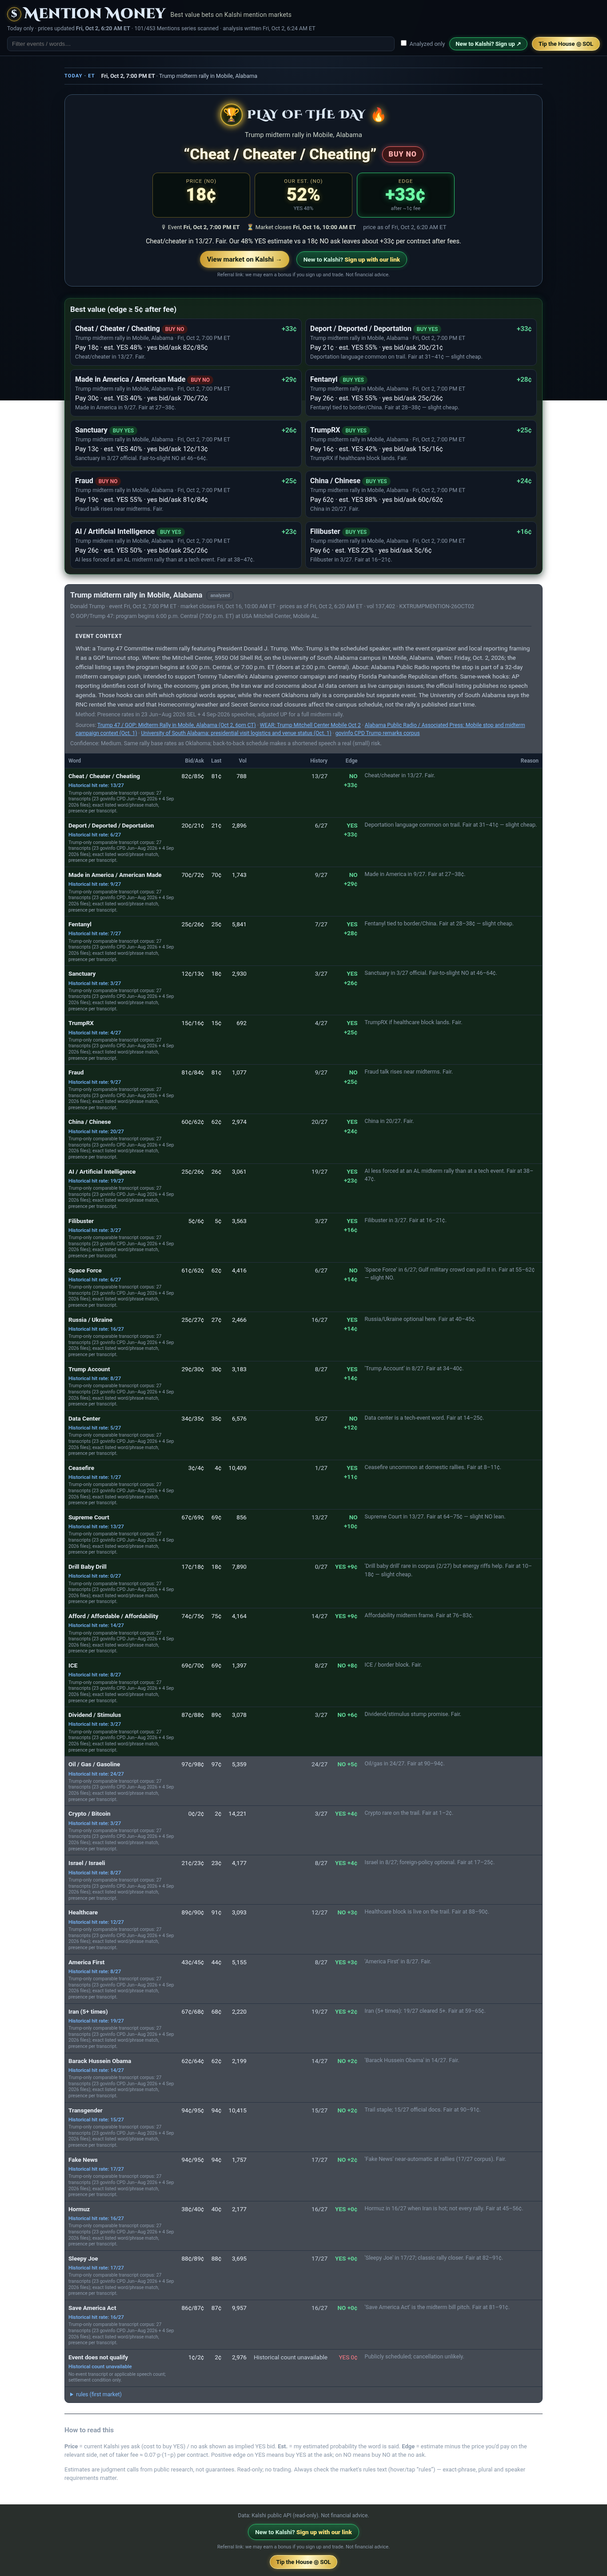
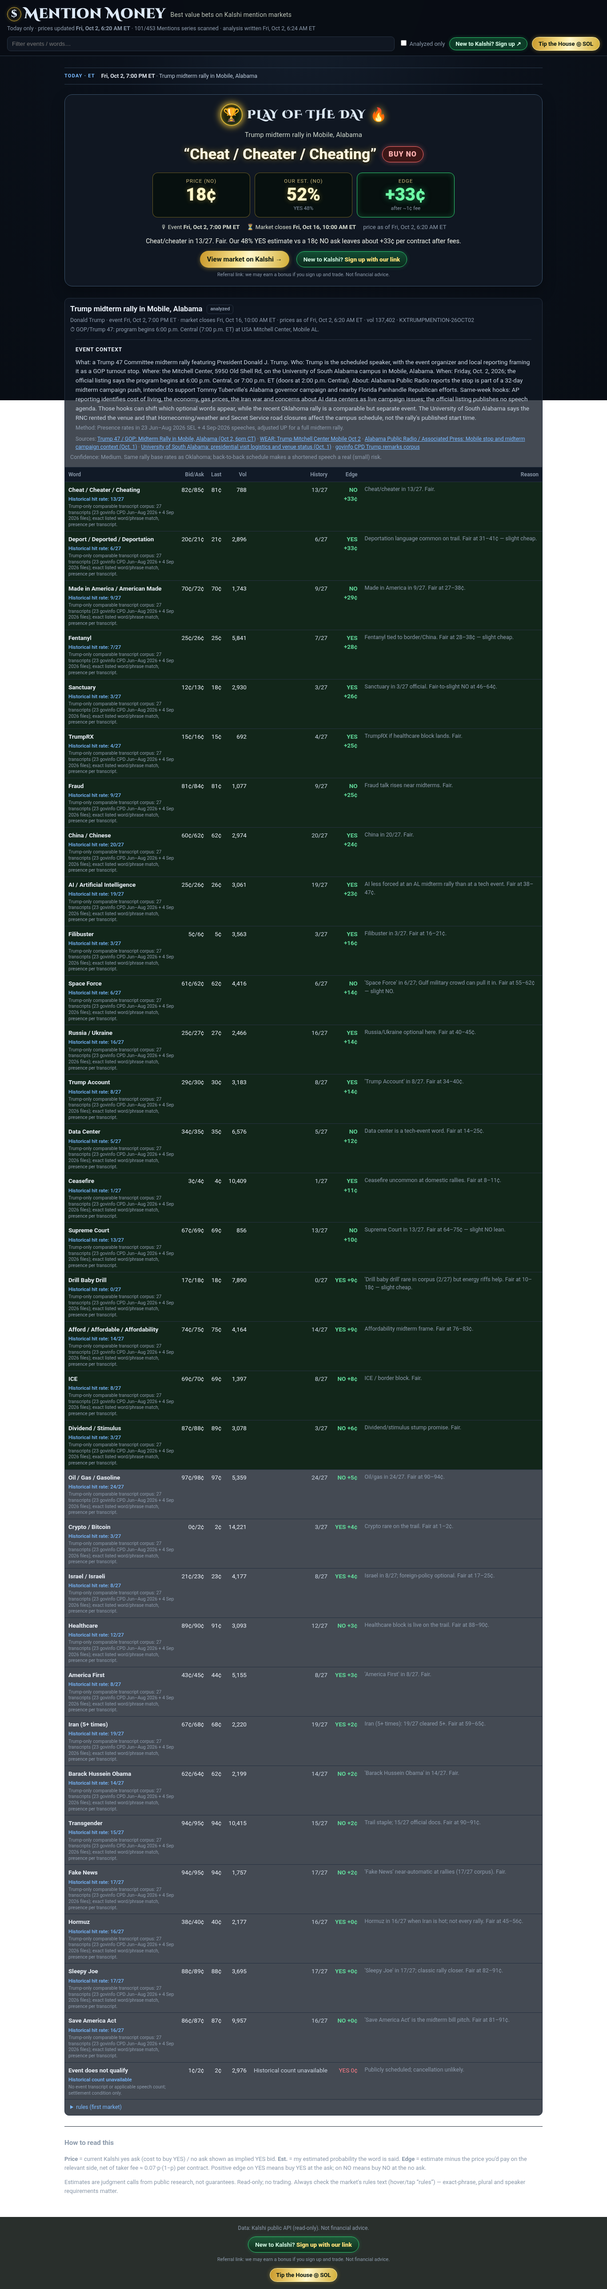
Remove the edge table under each event

diff --git a/app.js b/app.js
@@ -81,22 +81,15 @@ function render({mk, an}, q = '', onlyAnalyzed = false) {
     const words = (ea && ea.words) || {};
     const rows = e.markets.map(m => {
       const w = words[m.ticker] || words[m.word] || null;
-      const est = w ? w.p : null;
-      const ed = edges(m, est);
-      const hl = !done(e) && ed.edge != null && ed.edge >= minEdge;
-      return {m, w, est, ed, hl};
-    }).sort((a, b) => (b.ed.edge ?? -9) - (a.ed.edge ?? -9) || (b.m.last_price ?? 0) - (a.m.last_price ?? 0));
+      return {m, w};
+    }).sort((a, b) => a.m.word.localeCompare(b.m.word));
 
-    const tr = rows.map(({m, w, est, ed, hl}) => `
-      <tr class="${hl ? 'hl' : ''}">
-        <td class="word"><b>${esc(m.word)}</b>${w ? `<span class="history">${esc(historyLabel(w))}</span><span class="history-src">${esc(historySource(w))}</span>` : '<span class="history">Historical count unavailable</span>'}${w && w.reason ? `<span class="r-m">${esc(w.reason)}</span>` : ''}</td>
-        <td title="yes bid / yes ask">${pct(m.yes_bid)}/${pct(m.yes_ask)}</td>
-        <td class="hide-m">${pct(m.last_price)}</td>
-        <td class="hide-m">${m.volume != null ? Math.round(m.volume).toLocaleString() : '—'}</td>
-        <td class="history-col">${w ? esc(historyLabel(w).replace('Historical hit rate: ', '')) : '—'}</td>
-        <td class="${ed.edge == null ? 'mut' : ed.edge > 0 ? 'pos' : 'neg'}">${ed.edge == null ? '—' : `${ed.side} ${ed.edge > 0 ? '+' : ''}${Math.round(ed.edge * 100)}¢`}</td>
-        <td class="reason">${w ? esc(w.reason) : ''}</td>
-      </tr>`).join('');
+    const tr = rows.map(({m, w}) => `
+      <div class="word-row">
+        <b>${esc(m.word)}</b>
+        ${w ? `<span class="history">${esc(historyLabel(w))}</span><span class="history-src">${esc(historySource(w))}</span>` : '<span class="history">Historical count unavailable</span>'}
+        ${w && w.reason ? `<span class="r-m">${esc(w.reason)}</span>` : ''}
+      </div>`).join('');
 
     const src = ea && ea.sources ? ea.sources.map(s => `<a href="${esc(s.url)}" target="_blank" rel="noopener">${esc(s.title || s.url)}</a>`).join(' · ') : '';
     const rules = e.markets[0] && e.markets[0].rules_primary ? e.markets[0].rules_primary : '';
@@ -111,9 +104,7 @@ function render({mk, an}, q = '', onlyAnalyzed = false) {
           ${src ? `<div class="src">Sources: ${src}</div>` : ''}</div>` : ''}
         ${ea?.confidence ? `<div class="info">Confidence: ${esc(ea.confidence)}</div>` : ''}
       </div>
-      <div class="scroll"><table class="tbl">
-        <thead><tr><th class="word">Word</th><th>Bid/Ask</th><th class="hide-m">Last</th><th class="hide-m">Vol</th><th>History</th><th>Edge</th><th class="reason">Reason</th></tr></thead>
-        <tbody>${tr}</tbody></table></div>
+      <div class="word-list">${tr}</div>
       ${rules ? `<details><summary>rules (first market)</summary><div class="rules">${esc(rules)}\n\n${esc(e.markets[0].rules_secondary || '')}</div></details>` : ''}
     </article>`;
   }).join('');

diff --git a/style.css b/style.css
@@ -146,3 +146,6 @@ footer{color:var(--mut);font-size:12px;text-align:center;padding:16px;background
 @media(max-width:640px){header .ref-btn .tl{display:none}header .ref-btn{padding:7px 11px}}
 /* phones: keep the sticky header on one control row; the Play of the Day and footer carry the referral CTA */
 @media(max-width:480px){header .ref-btn{display:none}}
+
+.word-list{display:flex;flex-direction:column;gap:14px;padding:4px 2px 8px}
+.word-row{display:flex;flex-direction:column;gap:2px}

diff --git a/index.html b/index.html
@@ -64,6 +64,6 @@
   <span id="tip-status" class="tip-status" role="status" aria-live="polite"></span>
   <p class="tip-note">Donations are optional and support the site. Send SOL only on the Solana network.</p>
 </dialog>
-<script src="app.js"></script>
+<script src="app.js?v=3"></script>
 </body>
 </html>
